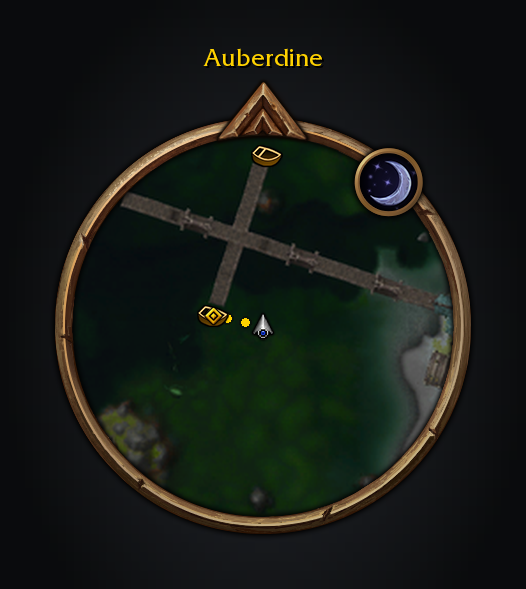
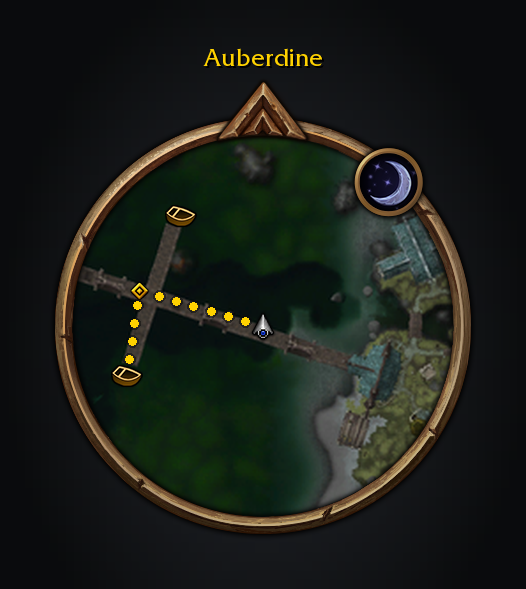
fix(route): even preview dots, fitting stop numbers, smaller continent dots (#26)
* fix(route): multi-stop previews use the route's even dots; stop numbers fit

The itinerary preview passed a dashLimit that stretched each segment's
dot spacing to (visible length / limit), at least 4 per segment for long
itineraries. Long hops got sparse dots and short ones 9px, so the preview
looked like the old uneven route. dashLimit is removed: previews use
SPACING like every walk. Dots are only placed on the visible span and the
stroke pool is bounded at 4096, which is what the cap was guarding.

Two-digit stop numbers ("25") spilled off the waypoint pin; they now use
NumberFontNormalSmall. Docs: "dashed previews" -> "dotted previews".

Claude-Session: https://claude.ai/code/session_016cB4EsmY8J7vcvboaHNcoS

* feat(route): smaller breadcrumb dots on continent and world maps

A continent map shows a whole journey at a fraction of a zone's scale, so
4px dots 9px apart read heavy there. Maps of type Continent or wider now
draw 3px dots 7px apart; zone maps and the minimap keep 4/9. Dot size and
spacing move from constants to per-frame fields the map pin sets on each
draw, so the clip margin, rim and spacing all follow the size in use.

This also fixes a dropped dot the smaller spacing exposed: a dot landing
exactly on a joint could be excluded by both segments when the running
walk total rounded just past it. Both ends now share a 0.001px tolerance,
so the dot belongs to the later segment.

Mock: kalimdor.png and demo.gif redrawn with the smaller dots.
[…]

Changed region(s): [[0.1521, 0.2445, 0.8821, 0.8862], [0.4563, 0.8251, 0.5171, 0.8557], [0.5475, 0.3362, 0.5779, 0.3667]]

diff --git a/tools/screenshots.py b/tools/screenshots.py
@@ -220,13 +220,15 @@ def walk_dots(strokes, spacing):
     return dots
 
 
-def flush_strokes(canvas):
+def flush_strokes(canvas, small=False):
     # ARTWORK sublevel -1 puts every outline and rim beneath every core, including at bends and crossings.
     # Sizes in UI units draw at that many units' worth of pixels at every UI scale, so they widen with the render
-    # scale like everything else: 2-unit lines in 4-unit outlines, and 4-unit dots in 6-unit rims, 9 apart.
+    # scale like everything else: 2-unit lines in 4-unit outlines, and dots in rims one unit wider on every side:
+    # 4-unit dots 9 apart, or 3-unit dots 7 apart on world and continent maps (Route.lua's SMALL_DOT).
     k = canvas.ui.scale
+    dot, spacing = (3, 7) if small else (4, 9)
     strokes = getattr(canvas, "strokes", [])
-    dots = walk_dots(strokes, 9 * k)
+    dots = walk_dots(strokes, spacing * k)
     for under in (True, False):
         layer = Image.new("RGBA", canvas.image.size)
         draw = ImageDraw.Draw(layer)
@@ -235,7 +237,7 @@ def flush_strokes(canvas):
                 rgba = (0.04, 0.04, 0.04, alpha * 0.5) if under else (*color, alpha)
                 draw.line(line, fill=rgba255(rgba), width=round((4 if under else 2) * k))
         for x, y, color, alpha in dots:
-            r = (3 if under else 2) * k
+            r = (dot / 2 + (1 if under else 0)) * k
             rgba = (0.04, 0.04, 0.04, alpha * 0.5) if under else (*color, alpha)
             draw.ellipse((x - r, y - r, x + r, y + r), fill=rgba255(rgba))
         canvas.image.alpha_composite(layer)
@@ -434,7 +436,7 @@ def map_canvas(ui, map_id=947, alpha=1, hover=False):
             route_crossing(route, projection(ui, boat[0], map_id), projection(ui, boat[-1], map_id), BOAT_COLOR, alpha)
         else:
             path(boat, BOAT_COLOR, False)
-    flush_strokes(route)
+    flush_strokes(route, small=map_id in (947, 1414))  # Azeroth and Kalimdor: world and continent maps
     canvas.paste(route, mx, my)
     map_landmarks(canvas, map_id, rects["map"])
     hover_point = map_dock_pins(canvas, map_id, rects["map"], hover)
@@ -561,18 +563,12 @@ def render_compass(ui):
 def render_minimap(ui):
     canvas = ui.canvas(300, 285)
     cx, cy, size, radius = 150, 155, 198, 233 + 1 / 3
-    walk = ordered(data()["walk"])
     pier = data()["docks"]["10"]
-    # On the walk's last stretch, 60 yards short of the south pier: Guide's waypoint covers its ferry pin, and the
-    # Teldrassil pier's shows at the top (MinimapPins.lua). The route is drawn from where you stand.
-    last = walk[-2]
-    t = 1 - 60 / math.hypot(pier["x"] - last["x"], pier["y"] - last["y"])
-    here = {
-        "map": START["map"],
-        "x": last["x"] + t * (pier["x"] - last["x"]),
-        "y": last["y"] + t * (pier["y"] - last["y"]),
-    }
-    points = [here, pier]
+    # Standing on Auberdine's long jetty: the walk runs west to the junction and south to the Menethil pier, whose
+    # ferry pin shows beside the Teldrassil pier's (MinimapPins.lua). The recorded walk is too coarse to follow the
+    # jetty, so its planks are measured off the minimap art.
+    here = {"map": START["map"], "x": 6464.8, "y": 662.9}
+    points = [here, {"map": START["map"], "x": 6506.6, "y": 808.6}, pier]
     terrain = minimap_art(ui, START["map"], here["x"], here["y"], radius)
     face = ui.canvas(size, size)
     face.draw(terrain, 0, 0, size, size)

diff --git a/README.md b/README.md
@@ -13,7 +13,7 @@ the flight points you know, boats and zeppelins with their live departure times,
 walks you there with the game's own navigation marker. Walking maps cover Eastern Kingdoms, Kalimdor and Zephras Isle;
 they come in the same download and load only when a route needs them.
 
-![A journey from Auberdine through Menethil and Theramore to Silithus](docs/screenshots/kalimdor.png)
+![Eight-second demo of a route settling, the countdown and the optional compass](docs/screenshots/demo.gif)
 
 ## Features
 
@@ -47,7 +47,7 @@ Each feature has more detail in [docs/features.md](docs/features.md).
 - **Times from real rides, shared.** One ride, yours or another player's, times a boat for hours. Sightings pass
   quietly over guild, party and yell at the docks; turn sharing off in the settings.
 
-![Eight-second demo of a route settling, the countdown and the optional compass](docs/screenshots/demo.gif)
+![A journey from Auberdine through Menethil and Theramore to Silithus](docs/screenshots/kalimdor.png)
 
 ## Install
 
@@ -85,7 +85,7 @@ Addons can use `ShortestPathForever.API` (`version = 1`) with uiMapIDs and norma
 `Estimate(fromMap, fromX, fromY, toMap, toX, toY)` returns travel seconds or `nil` without changing guidance;
 it omits endpoint terrain searches and caches estimates for five seconds, rounding origins to 0.0001.
 `NavigateRoute(owner, stops)` guides through 1–64 `{map, x, y, title}` stops in order, advancing on arrival
-and ending after the last. Remaining stops have numbered map pins and dashed previews; the tracker and
+and ending after the last. Remaining stops have numbered map pins and dotted previews; the tracker and
 arrow show “Stop 2 of 4: …”. `Navigate(owner, map, x, y, title)` is the one-stop form. Both return a boolean;
 invalid input, combat or disabled Journeys return `false` without replacing guidance. Titles are optional.
 `CurrentStop(owner)` returns the current 1-based stop or `nil`; `Cancel(owner)` returns `true` only when it

diff --git a/docs/curseforge.md b/docs/curseforge.md
@@ -1,6 +1,6 @@
 Shortest Path Forever finds the fastest way across WoW: Forever. Shift-click a destination on the map, or pick a quest, and it joins walking paths, flight paths, boats, zeppelins, lifts, the Deeprun Tram and portals into one journey. Walking maps for Eastern Kingdoms, Kalimdor and Zephras Isle come in the same download.
 
-![A journey from Auberdine through Menethil and Theramore to Silithus](https://raw.githubusercontent.com/cjber/shortest-path-forever/main/docs/screenshots/kalimdor.png)
+![Eight-second demo of a route settling, the countdown and compass](https://raw.githubusercontent.com/cjber/shortest-path-forever/main/docs/screenshots/demo.gif)
 
 ## Features
 
@@ -20,7 +20,7 @@ Shortest Path Forever finds the fastest way across WoW: Forever. Shift-click a d
 
 ![The optional compass strip with the next turns and destination](https://raw.githubusercontent.com/cjber/shortest-path-forever/main/docs/screenshots/compass.png)
 
-![Eight-second demo of a route settling, the countdown and compass](https://raw.githubusercontent.com/cjber/shortest-path-forever/main/docs/screenshots/demo.gif)
+![A journey from Auberdine through Menethil and Theramore to Silithus](https://raw.githubusercontent.com/cjber/shortest-path-forever/main/docs/screenshots/kalimdor.png)
 
 ## Usage
 

diff --git a/CHANGELOG.md b/CHANGELOG.md
@@ -12,11 +12,12 @@ verbatim rather than rewritten as the addon moves.
 ## [Unreleased]
 
 Walking legs are round breadcrumb dots, evenly spaced around every bend, instead of dashes, on the map and
-the minimap alike. Boats, zeppelins and flights keep their solid coloured lines.
+the minimap alike, a little smaller on continent and world maps. Boats, zeppelins and flights keep their solid
+coloured lines.
 
 **Other addons can offer Shortest Path guidance.** The version 1 public API estimates travel time and starts
 journeys through one or several stops in order. Numbered map pins, drawn as the Adventure Guide's gold-numbered
-rings that glow when you hover them, and dashed previews show the remaining stops,
+rings that glow when you hover them, and dotted previews show the remaining stops,
 while guidance advances on arrival and shows your progress. An addon can check the current stop and cancel
 only its own whole route, preserving a journey you start yourself.
 
